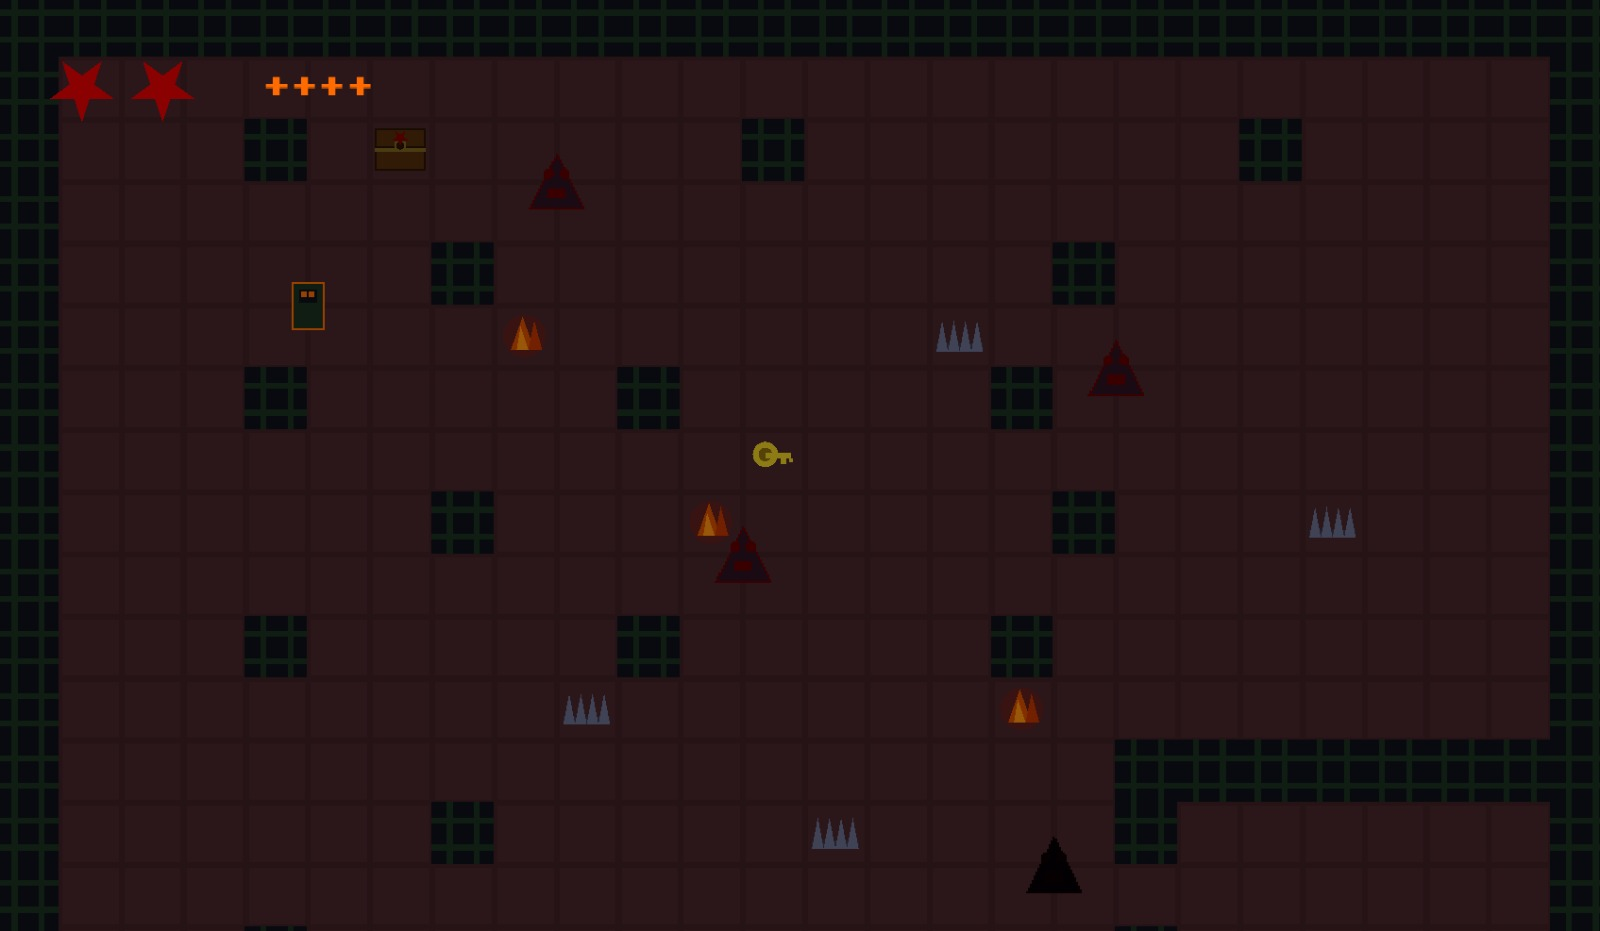
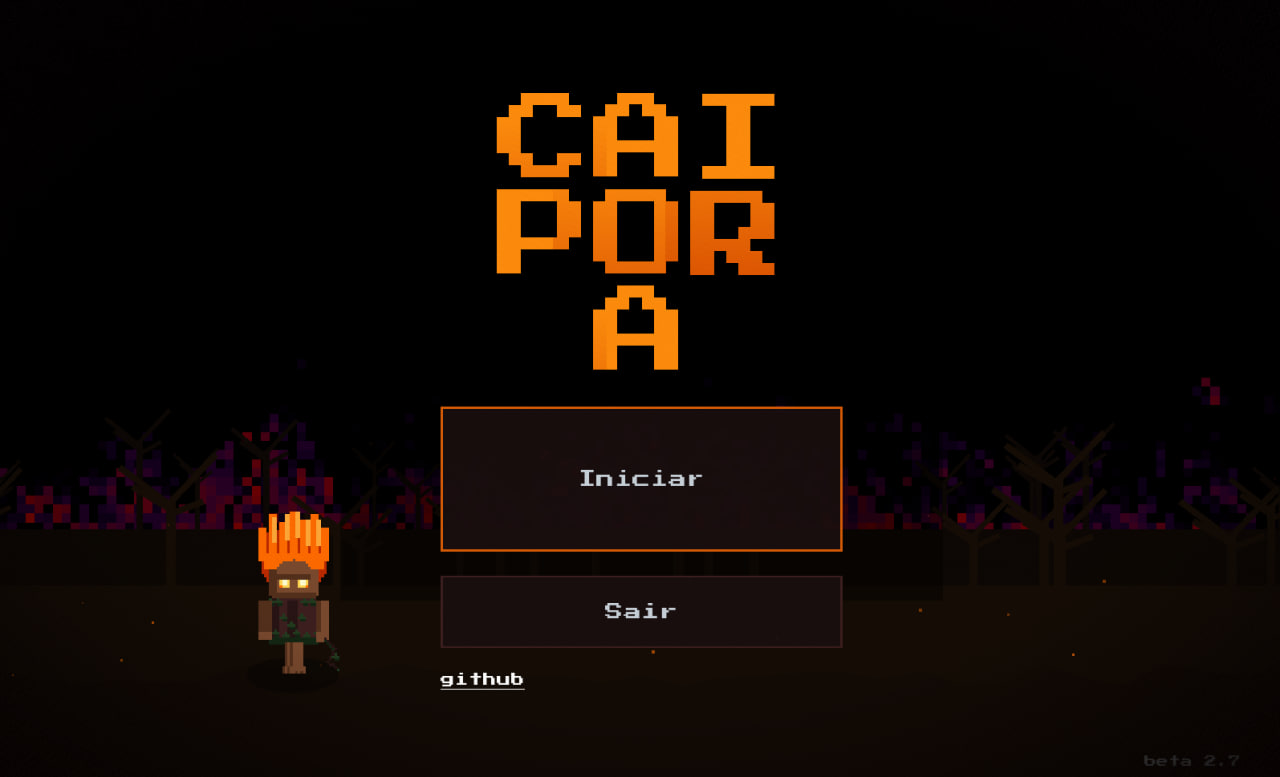
Updates

diff --git a/index.html b/index.html
@@ -48,7 +48,7 @@
     <meta name="twitter:image" content="/og.jpg" />
     <meta name="twitter:card" content="summary_large_image" />
     <meta name="twitter:creator" content="@baltazarparra" />
-    <script type="module" crossorigin src="/assets/index.DanpYY3M.js"></script>
+    <script type="module" crossorigin src="/assets/index.CzKlXH4M.js"></script>
     <link rel="modulepreload" crossorigin href="/assets/react.aGtg3Tlf.js">
     <link rel="modulepreload" crossorigin href="/assets/react-three.BaKJdcxl.js">
     <link rel="stylesheet" crossorigin href="/assets/index.Bfrul4VA.css">

diff --git a/assets/Hero3D.BNdINADH.js b/assets/Hero3D.BNdINADH.js
@@ -1,0 +1,1 @@
+import{a as e,e as t,f as r,g as i,u as n,j as o,c as s,h as l,i as a,E as c,k as u,M as p}from"./react-three.BaKJdcxl.js";import{r as f}from"./react.aGtg3Tlf.js";import{g as m}from"./index.CzKlXH4M.js";const d={x:0,y:0},h={ULTRA:{desktop:{dpr:[1.25,2],antialias:!0,enablePost:!0,multisampling:4},mobile:{dpr:[1.1,1.6],antialias:!0,enablePost:!1,multisampling:0}},HIGH:{desktop:{dpr:[1,1.75],antialias:!0,enablePost:!0,multisampling:2},mobile:{dpr:[1,1.4],antialias:!0,enablePost:!1,multisampling:0}},MEDIUM:{desktop:{dpr:[.9,1.25],antialias:!0,enablePost:!1,multisampling:0},mobile:{dpr:[.85,1.15],antialias:!0,enablePost:!1,multisampling:0}},LOW:{desktop:{dpr:[.75,1],antialias:!1,enablePost:!1,multisampling:0},mobile:{dpr:[.7,.9],antialias:!1,enablePost:!1,multisampling:0}}},g=e=>1-Math.pow(1-e,3),v=f.memo((({cameraPosition:t})=>{const{camera:r}=e();return f.useEffect((()=>{r.position.set(...t),r.lookAt(0,0,0),r.updateProjectionMatrix()}),[r,t]),null}));v.displayName="CameraTarget";const w=f.memo((({mouseRef:s,scrollProgressRef:l,containerSize:a,isMobile:c,reduceMotion:u})=>{const m=f.useRef(),h=f.useRef(),v=f.useRef(),w=f.useRef(),x=f.useRef(),y=f.useRef(),{scene:M}=t("/smile.glb"),{viewport:b}=e(),z=f.useMemo((()=>{return e=a.width,c?e<=280?{fillX:.72,fillY:.72}:e<=320?{fillX:.74,fillY:.74}:e<=400?{fillX:.76,fillY:.76}:{fillX:.78,fillY:.78}:e<=280?{fillX:.62,fillY:.62}:e<=320?{fillX:.64,fillY:.64}:e<=400?{fillX:.66,fillY:.66}:e<=480?{fillX:.68,fillY:.68}:e<=560?{fillX:.7,fillY:.7}:{fillX:.72,fillY:.72};var e}),[a.width,c]),E=f.useMemo((()=>{return e=a.width,c?e<=320?{scaleBoost:.12,liftMultiplier:.18,gazeRotation:.14,gazeOffset:.08}:{scaleBoost:.16,liftMultiplier:.22,gazeRotation:.16,gazeOffset:.1}:e<=400?{scaleBoost:.1,liftMultiplier:.14,gazeRotation:.15,gazeOffset:.08}:{scaleBoost:.14,liftMultiplier:.18,gazeRotation:.18,gazeOffset:.1};var e}),[a.width,c]),P=f.useMemo((()=>{return e=a.width,c?e<=320?{baseYOffset:0,floatAmplitude:.08}:{baseYOffset:0,floatAmplitude:.085}:e<=400?{baseYOffset:.01,floatAmplitude:.085}:{baseYOffset:.015,floatAmplitude:.09};var e}),[a.width,c]),R=f.useMemo((()=>{const e=(new r).setFromObject(M),t=e.getCenter(new i),n=e.getSize(new i);return{centerOffset:[-t.x,-t.y,-t.z],size:n}}),[M]),j=f.useMemo((()=>{const e=Math.max(R.size.x,.001),t=Math.max(R.size.y,.001),r=b.width*z.fillX/e,i=b.height*z.fillY/t;return Math.min(r,i)}),[R.size.x,R.size.y,z.fillX,z.fillY,b.width,b.height]);return f.useEffect((()=>{M.traverse((e=>{e.isMesh&&(e.geometry.computeVertexNormals(),e.material&&(e.material.flatShading=!1,e.material.roughness=.32,e.material.metalness=.06,e.material.needsUpdate=!0))}))}),[M]),n((({clock:e})=>{const t=s.current||d,r=u?0:p.clamp(l.current||0,0,1),i=g(r),n=P.baseYOffset+Math.sin(.6*e.getElapsedTime())*P.floatAmplitude,o=1-.45*i,a=b.height*E.liftMultiplier*i,c=j*(1+i*E.scaleBoost);if(m.current&&(m.current.position.y=p.lerp(m.current.position.y,a,.08),m.current.scale.setScalar(p.lerp(m.current.scale.x,c,.08)),m.current.rotation.z=p.lerp(m.current.rotation.z,-.04*t.x*o,.04)),h.current){const r=e.getElapsedTime();h.current.rotation.y=p.lerp(h.current.rotation.y,.32*t.x,.05),h.current.rotation.x=p.lerp(h.current.rotation.x,.2*t.y,.05),h.current.rotation.z=.1*Math.cos(.4*r),h.current.position.y=p.lerp(h.current.position.y,n,.08)}v.current&&(v.current.rotation.y=p.lerp(v.current.rotation.y,t.x*E.gazeRotation*o,.08),v.current.rotation.x=p.lerp(v.current.rotation.x,t.y*E.gazeRotation*.65*o,.08),v.current.position.x=p.lerp(v.current.position.x,t.x*E.gazeOffset*o,.08),v.current.position.y=p.lerp(v.current.position.y,t.y*E.gazeOffset*.7*o,.08)),w.current&&(w.current.rotation.z=p.lerp(w.current.rotation.z,-.025*t.x*o,.06)),x.current&&(x.current.position.x=p.lerp(x.current.position.x,t.x*b.width*.5,.06),x.current.position.y=p.lerp(x.current.position.y,t.y*b.height*.5,.06)),y.current&&(y.current.position.x=p.lerp(y.current.position.x,t.x*b.width*.22,.08),y.current.position.y=p.lerp(y.current.position.y,.1*b.height+t.y*b.height*.18,.08),y.current.intensity=p.lerp(y.current.intensity,1.35+.35*(1-i),.06))})),o.jsxs(o.Fragment,{children:[o.jsx("group",{ref:m,scale:j,children:o.jsx("group",{ref:h,children:o.jsx("group",{ref:v,children:o.jsx("primitive",{ref:w,object:M,position:R.centerOffset})})})}),o.jsx("pointLight",{ref:x,position:[0,0,5],intensity:2,color:"#C1121F",distance:8}),o.jsx("pointLight",{ref:y,position:[0,.4,4.2],intensity:1.35,color:"#FFF4D6",distance:6})]})}));w.displayName="FloatingModel",t.preload("/smile.glb");const x=({reduceMotion:e=!1,isMobile:t=!1})=>{const[r,i]=f.useState({width:400,height:400}),[n,d]=f.useState(!0),x=f.useRef(null),y=f.useRef(null),M=f.useRef(null),b=f.useRef({x:0,y:0}),z=f.useRef({x:0,y:0}),E=f.useRef(0),P=f.useMemo((()=>m()),[]),R=f.useMemo((()=>((e,t,r)=>{const i=h[e]||h.HIGH,n=t?i.mobile:i.desktop;return{dpr:n.dpr,antialias:n.antialias,enablePost:n.enablePost&&!r,multisampling:n.enablePost&&!r?n.multisampling:0}})(null==P?void 0:P.name,t,e)),[P,t,e]),j=!e&&n,Y=(e,t)=>{var r;const i=null==(r=x.current)?void 0:r.closest(".hero"),n=null==i?void 0:i.getBoundingClientRect();if((null==n?void 0:n.width)&&(null==n?void 0:n.height))return z.current.x=p.clamp((e-n.left)/n.width*2-1,-1,1),void(z.current.y=p.clamp(-(t-n.top)/n.height*2+1,-1,1));z.current.x=p.clamp(e/window.innerWidth*2-1,-1,1),z.current.y=p.clamp(-t/window.innerHeight*2+1,-1,1)};f.useEffect((()=>{let e=null;const t=()=>{e||(e=requestAnimationFrame((()=>{if(x.current){const e=x.current.getBoundingClientRect();i({width:e.width,height:e.height})}e=null})))};return t(),window.addEventListener("resize",t,{passive:!0}),()=>{window.removeEventListener("resize",t),e&&cancelAnimationFrame(e)}}),[]),f.useEffect((()=>{if(!x.current)return;const e=new IntersectionObserver((([e])=>{d(e.isIntersecting)}),{rootMargin:"200px 0px",threshold:.1});return e.observe(x.current),()=>e.disconnect()}),[]),f.useEffect((()=>{const r=x.current;if(e)return E.current=0,void(r&&(r.style.setProperty("--hero-scroll-scale","1"),r.style.setProperty("--hero-scroll-translate-y","0px")));const i=()=>{if(!x.current)return;const e=x.current.closest(".hero");if(!e)return;const r=e.getBoundingClientRect(),i=window.innerHeight||1,n=.08*i,o=Math.max(.9*r.height,.95*i),s=p.clamp((-r.top-n)/o,0,1),l=g(s),a=t?1+.22*l:1+.38*l,c=t?.18*-i*l:.36*-i*l;E.current=s,x.current.style.setProperty("--hero-scroll-scale",a.toFixed(4)),x.current.style.setProperty("--hero-scroll-translate-y",`${c.toFixed(2)}px`)},n=()=>{M.current||(M.current=requestAnimationFrame((()=>{i(),M.current=null})))};return i(),window.addEventListener("scroll",n,{passive:!0}),window.addEventListener("resize",n,{passive:!0}),()=>{window.removeEventListener("scroll",n),window.removeEventListener("resize",n),M.current&&cancelAnimationFrame(M.current),r&&(r.style.removeProperty("--hero-scroll-scale"),r.style.removeProperty("--hero-scroll-translate-y"))}}),[t,e]);const L=()=>{y.current||(y.current=requestAnimationFrame((()=>{b.current.x=z.current.x,b.current.y=z.current.y,y.current=null})))};f.useEffect((()=>{if(e)return;const t=e=>{Y(e.clientX,e.clientY),L()},r=()=>{z.current.x=0,z.current.y=0,L()};return window.addEventListener("mousemove",t,{passive:!0}),window.addEventListener("blur",r),()=>{window.removeEventListener("mousemove",t),window.removeEventListener("blur",r)}}),[e]),f.useEffect((()=>{if(e)return;const t=e=>{if(e.touches.length>0){const t=e.touches[0];Y(t.clientX,t.clientY),L()}};return window.addEventListener("touchmove",t,{passive:!0}),window.addEventListener("touchstart",t,{passive:!0}),()=>{window.removeEventListener("touchmove",t),window.removeEventListener("touchstart",t)}}),[e]);const X=f.useMemo((()=>{return e=r.width,t?e<=280?{position:[.85,-1.85,6.95],fov:42}:e<=320?{position:[.9,-1.9,6.55],fov:40}:e<=400?{position:[1,-1.95,6.15],fov:39}:e<=480?{position:[1,-2,5.95],fov:39}:{position:[1,-2,5.9],fov:38}:e<=280?{position:[1,-2,7.4],fov:45}:e<=320?{position:[1,-2,7.1],fov:44}:e<=400?{position:[1,-2,6.7],fov:42}:e<=480?{position:[1,-2,6.35],fov:40}:e<=560?{position:[1,-2,6.15],fov:38}:{position:[1,-2,6.05],fov:37};var e}),[r.width,t]);return o.jsx("div",{ref:x,className:"hero-3d-container",onPointerMove:e=>{Y(e.clientX,e.clientY),L()},onTouchMove:e=>{if(e.touches.length>0){const t=e.touches[0];Y(t.clientX,t.clientY),L()}},onTouchStart:e=>{if(e.touches.length>0){const t=e.touches[0];Y(t.clientX,t.clientY),b.current.x=z.current.x,b.current.y=z.current.y}},children:o.jsxs(s,{camera:{position:X.position,fov:X.fov},dpr:R.dpr,gl:{antialias:R.antialias,alpha:!0,powerPreference:"high-performance",toneMapping:l,toneMappingExposure:1.2,outputColorSpace:a},frameloop:j?"always":"demand",children:[o.jsx(v,{cameraPosition:X.position}),o.jsx("directionalLight",{position:[10,15,15],intensity:25,castShadow:!1}),o.jsx(f.Suspense,{fallback:null,children:o.jsx(w,{mouseRef:b,scrollProgressRef:E,containerSize:r,isMobile:t,reduceMotion:e})}),R.enablePost&&o.jsx(c,{multisampling:R.multisampling,disableNormalPass:!0,children:o.jsx(u,{offset:[.004,.004]})})]})})};export{x as default};